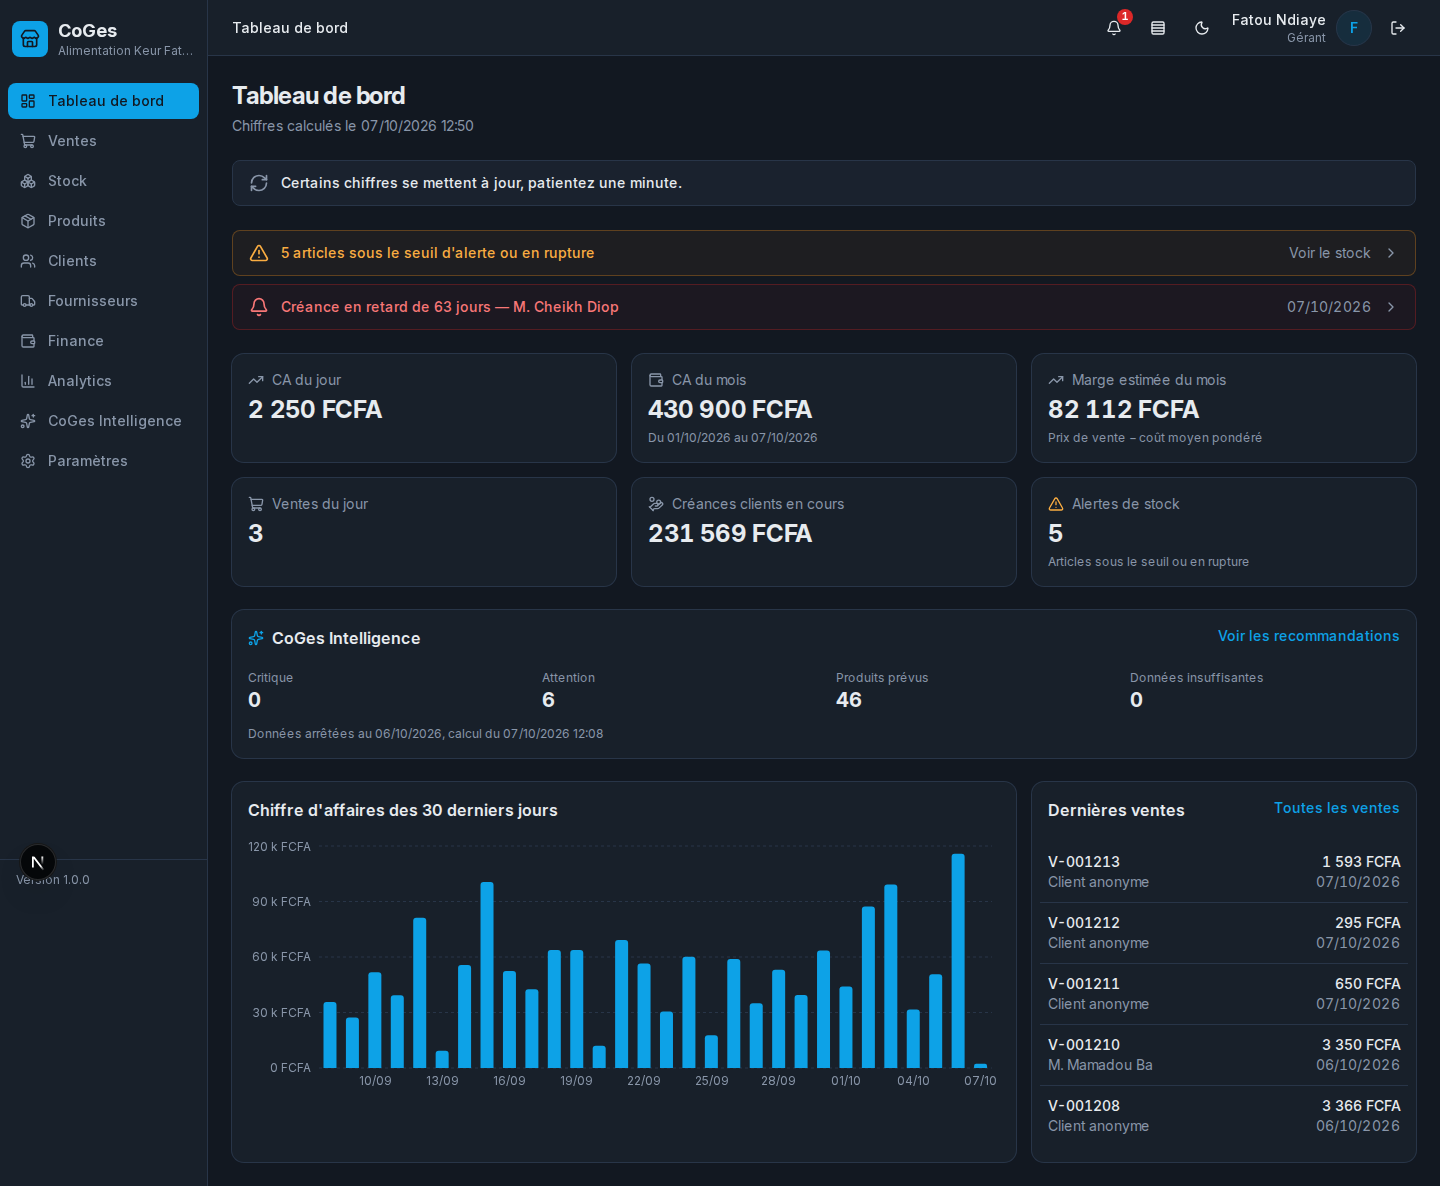
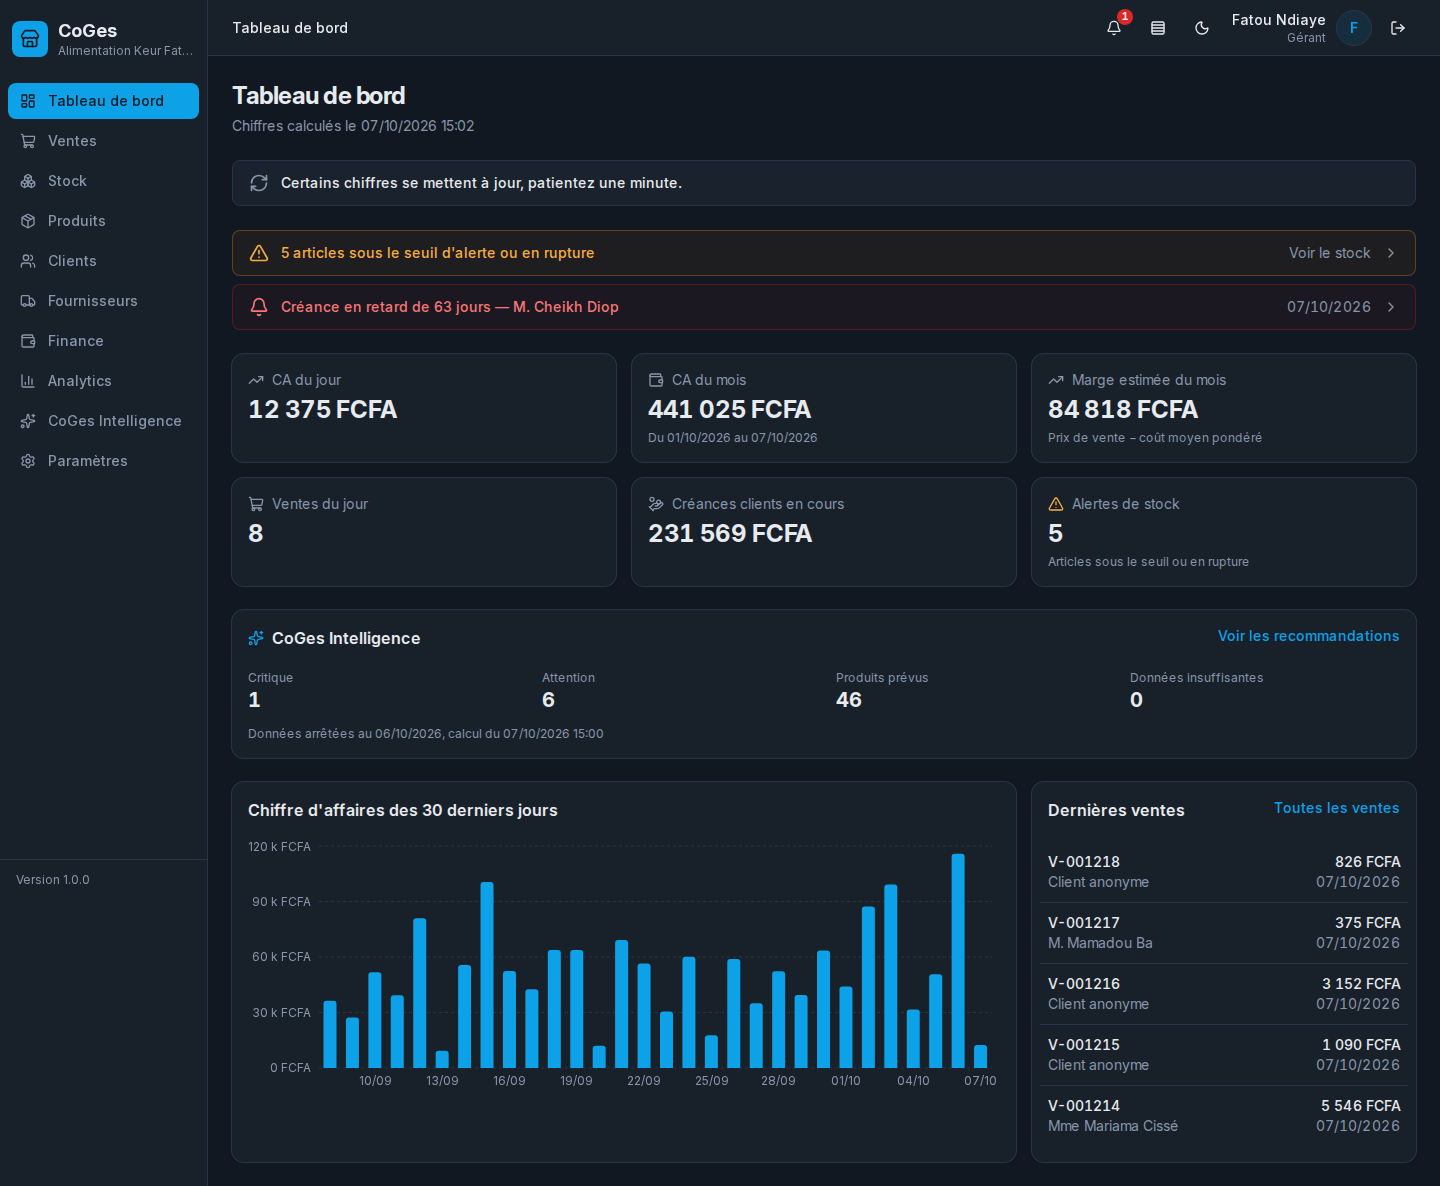
chore(front): hide the Next dev indicator and retake the phase 15 captures

diff --git a/frontend/next.config.ts b/frontend/next.config.ts
@@ -40,6 +40,8 @@ const nextConfig: NextConfig = {
   // répertoire de build (deploy/scripts/e2e.sh, ADR 0059). Vercel et `pnpm dev` : `.next`.
   distDir: process.env.COGES_NEXT_DIST_DIR || ".next",
   poweredByHeader: false,
+  // Le bouton « N » de développement ne doit pas apparaître sur les captures d'écran.
+  devIndicators: false,
   env: {
     NEXT_PUBLIC_APP_VERSION: pkg.version,
   },
